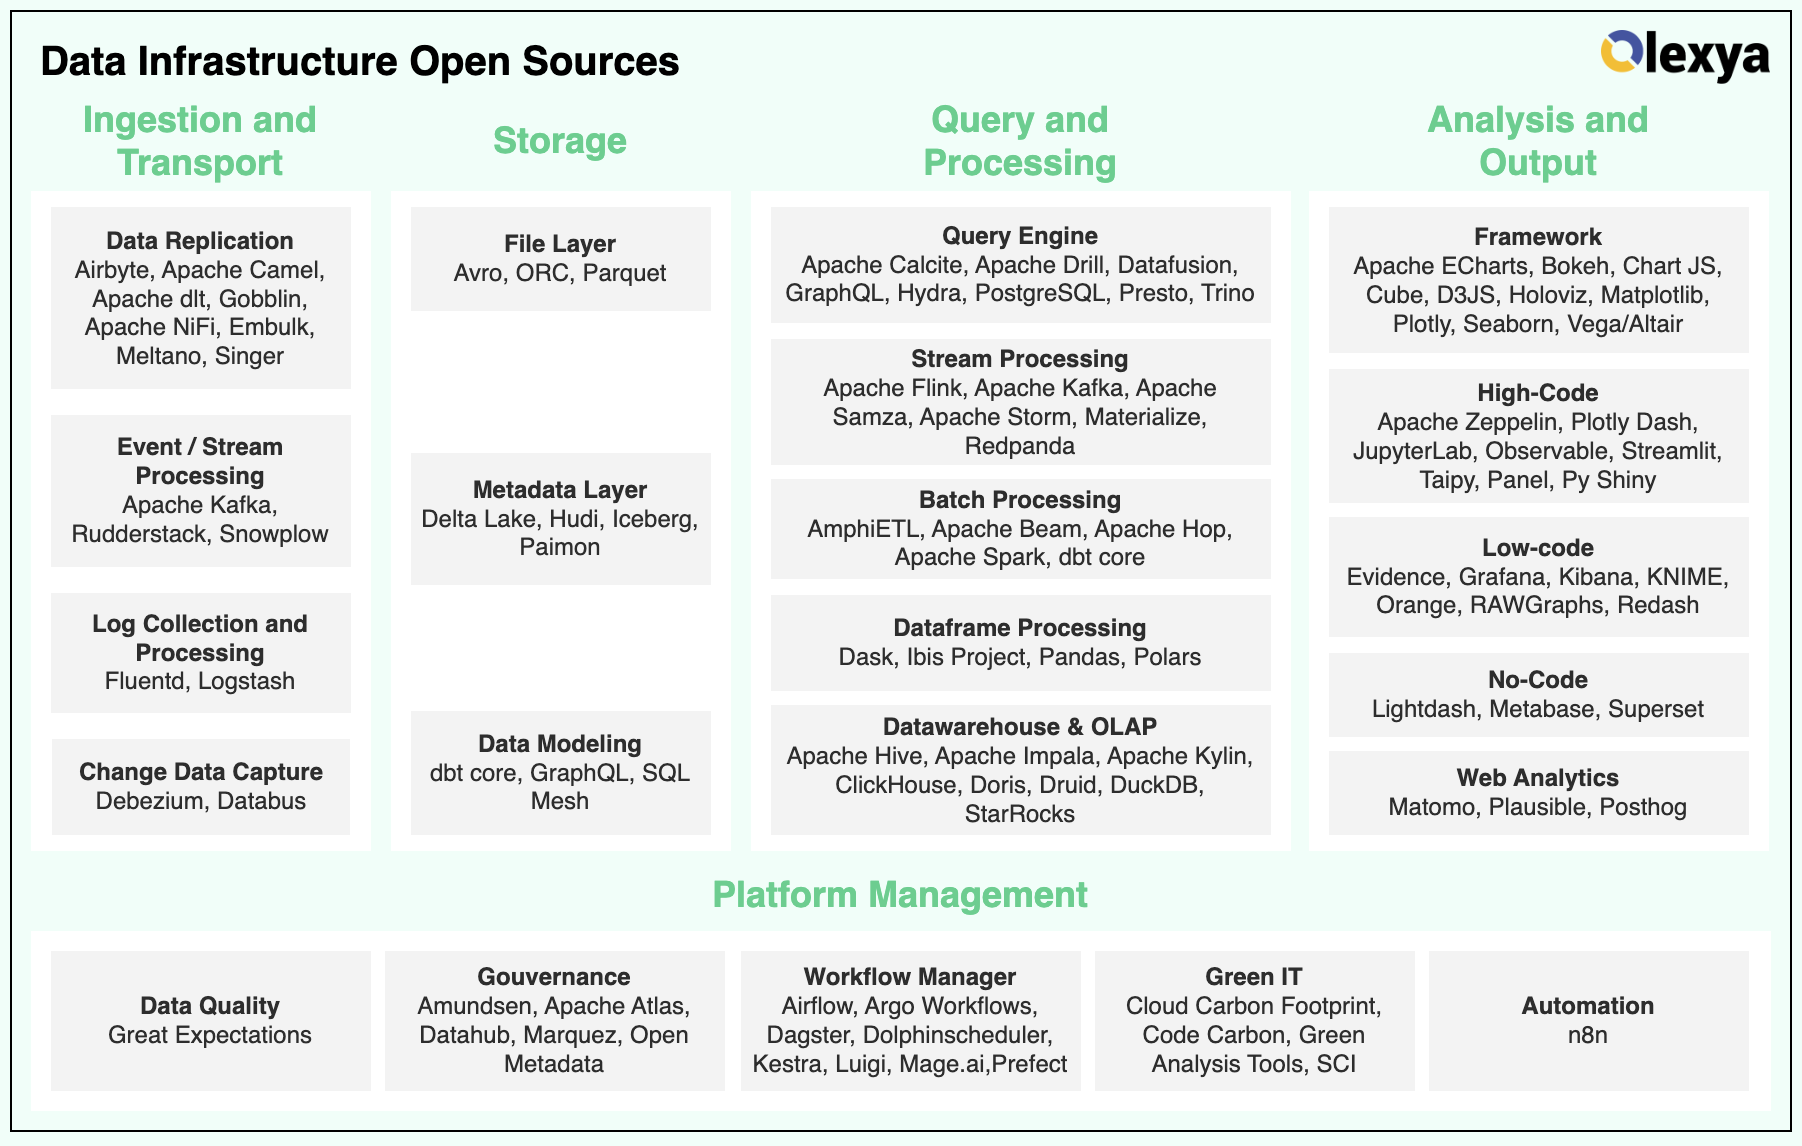
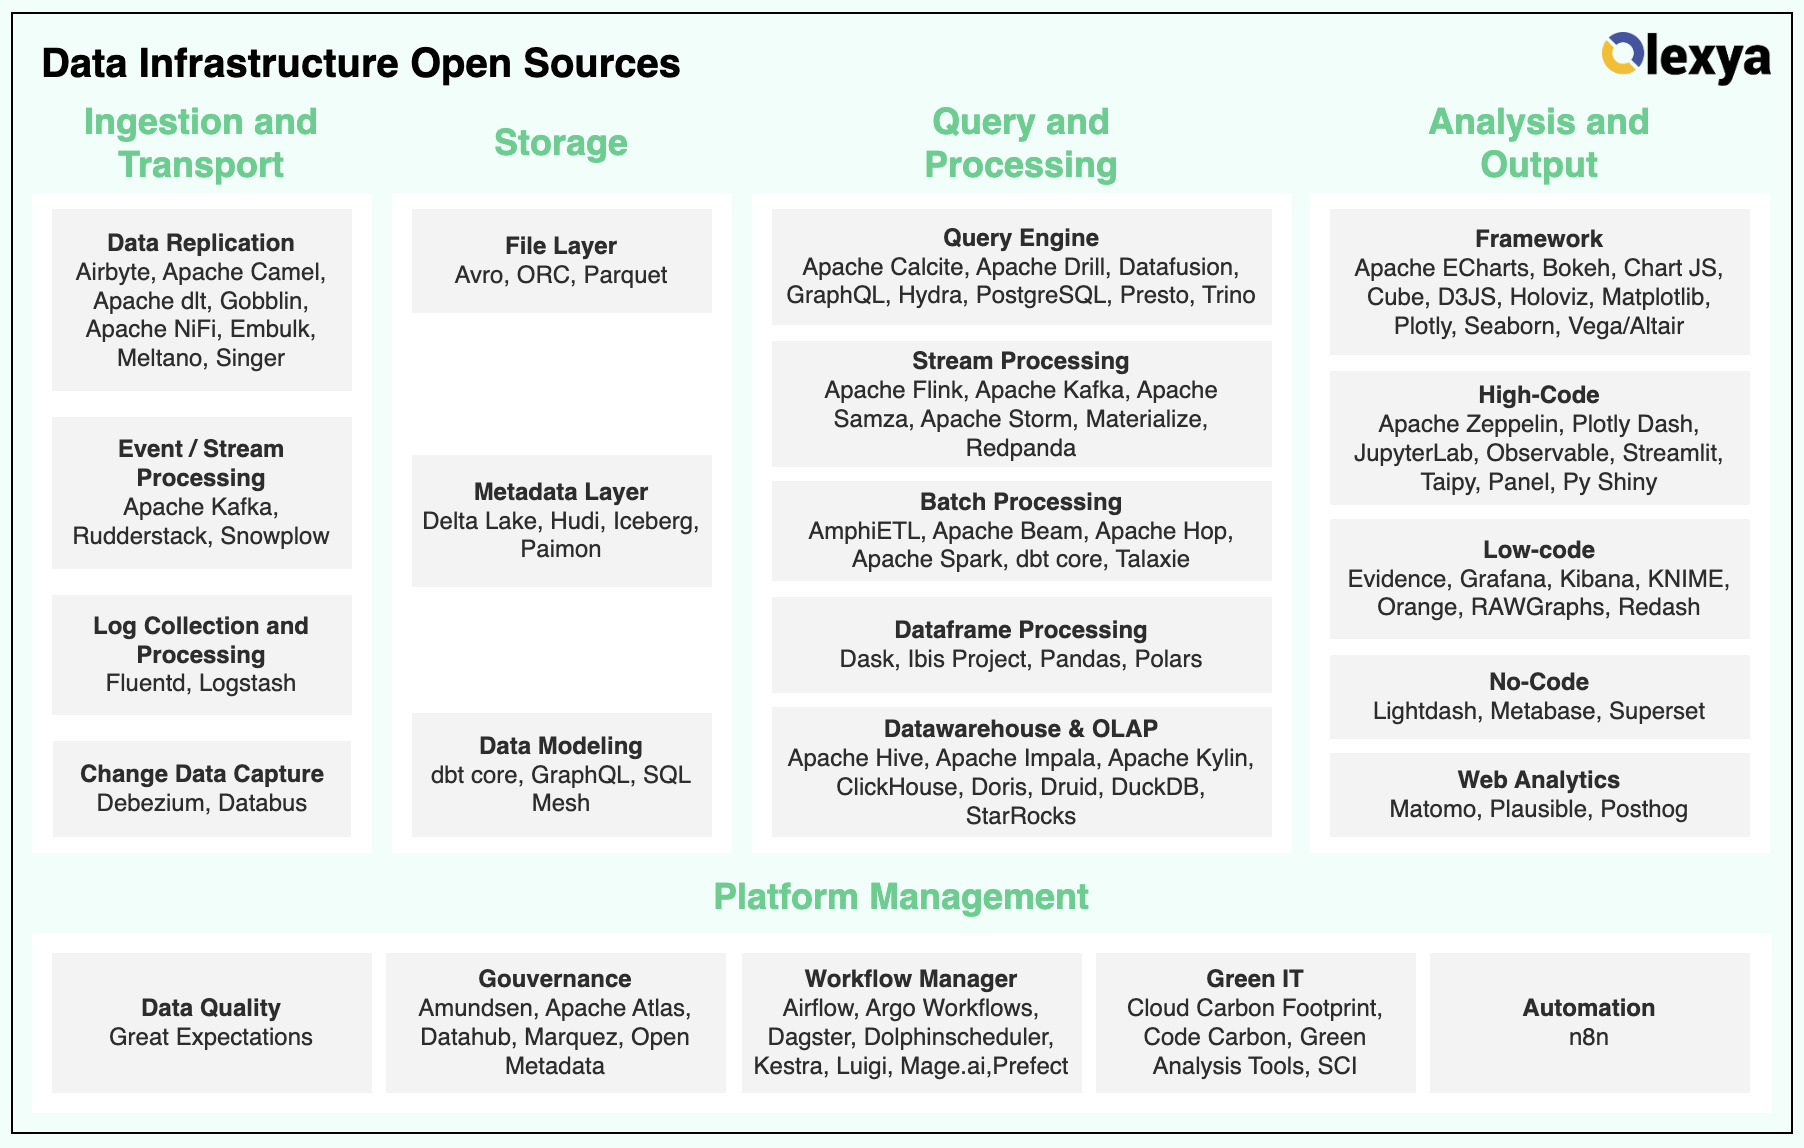
talaxie

diff --git a/03.query_and_processing.md b/03.query_and_processing.md
@@ -45,6 +45,8 @@ Here is a summary table of the main query and processing tools we have identifie
 | Apache Hop | Batch Processing | 24/09/2019 | 961 | 349 | 81 | 01/10/2024 | 22/10/2024 | Yes | https://github.com/apache/hop |
 | Apache Spark | Batch Processing | 25/02/2014 | 39533 | 28267 | 340 | N/A | 22/10/2024 | Yes | https://github.com/apache/spark |
 | dbt core | Batch Processing | 10/03/2016 | 9802 | 1621 | 288 | 07/10/2024 | 22/10/2024 | Yes | https://github.com/dbt-labs/dbt-core |
+| Talaxie | Batch Processing | 10/03/2016 | 9802 | 1621 | 288 | 07/10/2024 | 22/10/2024 | No | https://github.com/Talaxie/tdi-studio-se |
+
 
 ### Dataframe Processing
 
